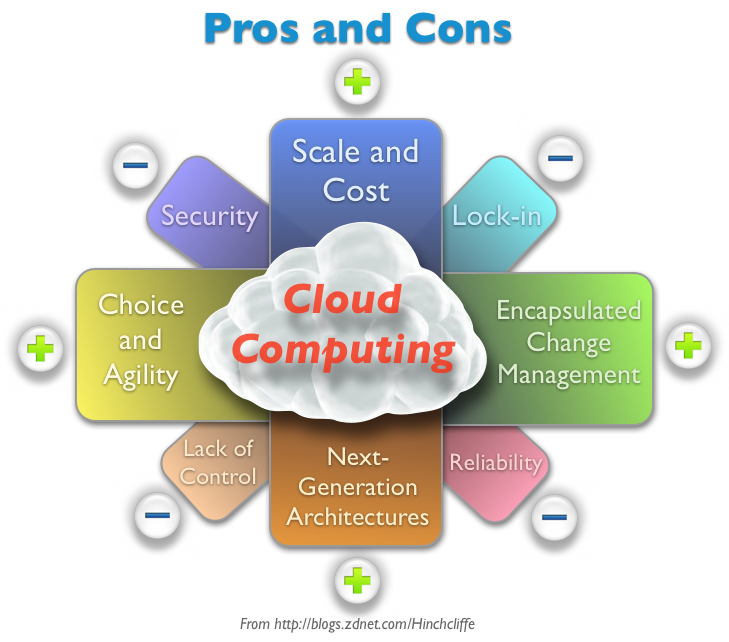
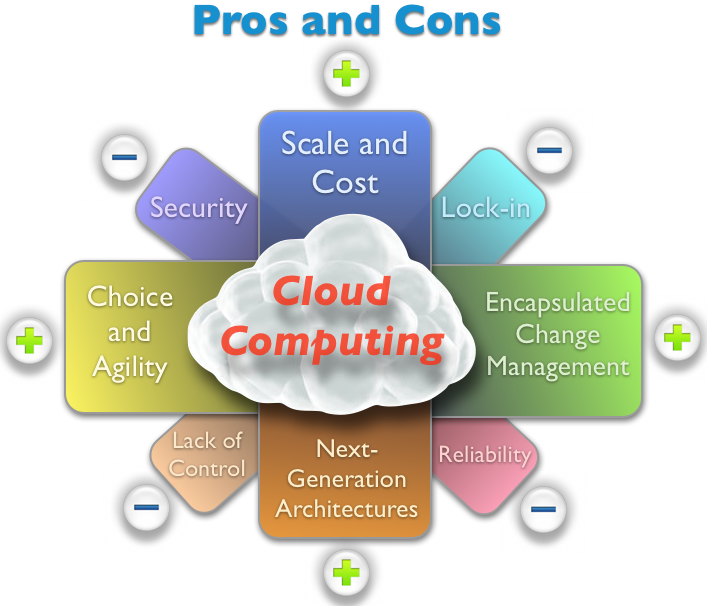
se arreglo el estilo

Changed region(s): [[0.0, 0.0, 1.0, 1.0], [0.529, 0.3564, 0.5601, 0.3861], [0.4356, 0.3564, 0.4668, 0.3861]]

diff --git a/tpCC.tex b/tpCC.tex
@@ -28,35 +28,35 @@
 
 \newpage
 
-\section{Que es Cloud Computing?}
+\section{¿Que es Cloud Computing?}
 
 \subsection{Introducción}
-Cuando se trata de un desarrollo , un problema muy común es la
-infraestructura .Las grandes empresas tienen el capital
+Cuando se trata de un desarrollo, un problema muy común es la
+infraestructura. Las grandes empresas tienen el capital
 suficiente como para contratar a un ingeniero capaz de diseñar
 una red de infraestructura adecuada a la información que se
 maneja y a un personal que se encargue de administrar esa
-red,Pero ¿Qué pasa cuando gente emprendedora que quiere empezar
+red. Pero ¿Qué pasa cuando gente emprendedora que quiere empezar
 un proyecto no tiene que almacenar la información suficiente
-como para aprovechar,o no puede costear, un salon de
-servidores?,¿O cuando se crea una aplicacíon que tiene un uso
-temporal?,¿O se lanza una aplicación la cual no se sabe si
+como para aprovechar, o no puede costear, un salón de
+servidores? ¿O cuando se crea una aplicación que tiene un uso
+temporal? ¿O se lanza una aplicación la cual no se sabe si
 tendrá el suficiente éxito como para gastar fortunas en
-infraestructura?.La respuesta es Cloud Computing,concepto
-conocido también bajo los términos servicios en la nube.Es un
+infraestructura?. La respuesta es Cloud Computing, concepto
+conocido también bajo los términos servicios en la nube. Es un
 servicio de almacenamiento en el cual cualquier usuario puede
 acceder a el sin las complicaciones que lleva montar
-servidores,diseñar una topologia y adecuar un ambiente para su
+servidores, diseñar una topología y adecuar un ambiente para su
 correcto desempeño. El usuario final no necesita tener
 conocimientos avanzados de informática para utilizar estos
 servicios ya que se puede presentar de muchas formas de cloud
-computing ,y quizás ni siquiera lo notemos ,desde almacenamiento
+computing, y quizás ni siquiera lo notemos, desde almacenamiento
 de archivos que usamos cotidianamente y queremos tenerlos al
 alcance siempre, hasta soporte de almacenamiento de datos para
-aplicativos de proyectos caseros.Su versatilidad hace que hasta
+aplicativos de proyectos caseros. Su versatilidad hace que hasta
 también se adecúe al equipo y al tipo de plataforma en el cual
-nos estemos conectando para visualizar nuestra informacion,
-tablets, equipos de escritorio, celulares , entre otros.\par
+nos estemos conectando para visualizar nuestra información,
+tablets, equipos de escritorio, celulares, entre otros.\par
 
 La computación en la nube son servidores desde internet
 encargados de atender las peticiones en cualquier momento. Se
@@ -65,17 +65,17 @@ conexión a internet desde cualquier dispositivo móvil o fijo
 ubicado en cualquier lugar. Sirven a sus usuarios desde varios
 proveedores de alojamiento repartidos frecuentemente por todo el
 mundo. Esta medida reduce los costes, garantiza un mejor tiempo
-de actividad y que los sitios web sean invulnerables.Es un nuevo
+de actividad y que los sitios web sean invulnerables. Es un nuevo
 modelo de prestaciones que hasta le permite al usuario tener un
 catálogo online de todos los servicios que ofrece, aumentando
 mas una de sus cualidades mas importantes que es la
-flexibilidad.Esto genera beneficios tanto para los proveedores,
+flexibilidad. Esto genera beneficios tanto para los proveedores,
 que pueden ofrecer, de forma más rápida y eficiente, un mayor
 número de servicios, como para los usuarios que tienen la
 posibilidad de acceder a ellos, disfrutando de la
-‘transparencia’ e inmediatez del sistema y de un modelo de pago
-por consumo,así el consumidor puede controlar sus gastos.\par Se
-incorporan conceptos como "\ el software como servicio"\ y otros
+``transparencia'' e inmediatez del sistema y de un modelo de pago
+por consumo, así el consumidor puede controlar sus gastos.\par 
+Se incorporan conceptos como  el ``software como servicio'' y otros
 mas recientes que son tendencias tecnológicas que tienen en
 común el que confían en Internet para satisfacer las necesidades
 de cómputo de los usuarios.
@@ -91,9 +91,9 @@ computing}
 \par
 \subsection{Características importantes de Cloud Computing}
 
-Para obtener la eficiencia que se conoce hoy en dia , cloud
+Para obtener la eficiencia que se conoce hoy en día, cloud
 computing atiende a una serie de características básicas que las
-difieren de otros servicios de almacenamiento
+difieren de otros servicios de almacenamiento:
 \begin {itemize}
 \item \textbf{Flexibilidad en la elección de aplicaciones:} El
 usuario puede decidir en todo momento qué aplicaciones usar y
@@ -104,10 +104,10 @@ se ha usado ese servicio, el volumen de tráfico de datos
 utilizado, etc.
 \item \textbf{Accesibilidad:} Se encuentra una disponibilidad
 completa de las aplicaciones en cloud computing y libres para el
-usuario.El rango es muy amplio y varía desde el uso de pcs hasta
+usuario. El rango es muy amplio y varía desde el uso de PCs hasta
 portátiles y móviles.
 
-\item \textbf{Asignación de recursos en modo multiusuario:}A
+\item \textbf{Asignación de recursos en modo multiusuario:} A
 diferencia de las aplicaciones de software tradicionales, en el
 cloud computing el proveedor tiene una única aplicación que abre
 a todos los usuarios que desean utilizarla, estableciendo unos
@@ -116,29 +116,29 @@ Al ser aplicaciones multiusuario, puede hacer miles de
 internautas utilizando la misma herramienta a la vez, cada uno
 con las mismas o distintas prestaciones.
 
-\item \textbf{Elasticidad y escalabilidad:}Las aplicaciones en
+\item \textbf{Elasticidad y escalabilidad:} Las aplicaciones en
 cloud son totalmente elásticas en cuanto a su rapidez de
 implementación y adaptabilidad. Además, son totalmente
 escalables, es decir, hoy podemos estar utilizando solo un 10
-pct del total de la aplicación y mañana podemos acceder al 80
-pct de la misma con total normalidad y rapidez, con tan solo
+\% del total de la aplicación y mañana podemos acceder al 80
+\% de la misma con total normalidad y rapidez, con tan solo
 comunicarlo a nuestro proveedor y modificar nuestra tarifa de
 suscripción.
  
-\item \textbf{Supervisión del servicio:}Los sistemas en cloud
+\item \textbf{Supervisión del servicio:} Los sistemas en cloud
 controlan y optimizan el uso de los recursos de manera
 automática, por lo que el uso de estos puede seguirse,
 controlarse y notificarse, lo que aporta transparencia tanto
 para el proveedor como para el consumidor del servicio
 utilizado.
  
-\item \textbf{Seguridad}Los datos, cuando están en aplicaciones
+\item \textbf{Seguridad:} Los datos, cuando están en aplicaciones
 en cloud, se alojan en DATA CENTERS, empresas específicamente
 dedicadas a la custodia y salvaguarda de datos de empresas de
-todo tipo.Son empresas que cuentan con todas las medidas de
+todo tipo. Son empresas que cuentan con todas las medidas de
 seguridad necesarias, tanto físicas como de software, de forma
 que no haya jamás una pérdida de información ni de integridad de
-los datos
+los datos.
 \end{itemize}
 
 \begin{figure}[h!]
@@ -152,43 +152,43 @@ los datos
 \begin {itemize}
 \item \textbf{Mejora en la economía} El poder aumentar la
 capacidad de producción con la menor cantidad de
-personas.Asegura un mayor rendimiento costo-beneficio
+personas. Asegura un mayor rendimiento costo-beneficio.
 
 \item \textbf{Reducir el gasto en infraestructura tecnológica}
-Se otorga un facil acceso a la información con un gasto fijo y
-mínimo por adelantado
+Se otorga un fácil acceso a la información con un gasto fijo y
+mínimo por adelantado.
 
-\item \textbf{Globalización de la fuerza de trabajo } Todas las
+\item \textbf{Globalización de la fuerza de trabajo} Todas las
 personas pueden acceder a la nube siempre y cuando tengan
-conexión a internet
-\item \textbf{Optimización de los procesos}Hacer mayor trabajo
+conexión a internet.
+\item \textbf{Optimización de los procesos} Hacer mayor trabajo
 en menos tiempo.
  
-\item \textbf{Reducir los costos de capital}No hay necesidad de
+\item \textbf{Reducir los costos de capital} No hay necesidad de
 gastar dinero en hardware, software o licencias.
  
 \item \textbf{Mejora la accesibilidad} Acceso en cualquier
 momento y en cualquier lugar.
   
 \item \textbf{Supervisar los proyectos con mayor eficacia}
-Facilidad para supervisar el tiempo ycosto de los proyectos y
+Facilidad para supervisar el tiempo y costo de los proyectos y
 presupuestarlos.
  
-\item \textbf{ Menos entrenamiento de personal.} No hay que
+\item \textbf{ Menos entrenamiento de personal} No hay que
 gastar recursos en capacitación de personal ya que solo se
-requieren conocimientos mínimos de software
+requieren conocimientos mínimos de software.
   
 \item \textbf{ Mejorar la flexibilidad} Puede cambiar de
-capacidad facilmente y adaptarlo rapidamente a las necesidades
-del usuario
+capacidad fácilmente y adaptarlo rápidamente a las necesidades
+del usuario.
     
 \end{itemize}
 
 
 \begin{figure}[h!]
  \centering
- \includegraphics[width=0.71\textwidth]{cc_pros.png}
-\caption[pros cloud computing]{Esquema de ventajas y desventajas de cloud computing}
+ \includegraphics[width=0.54\textwidth]{cc_pros.png}
+\caption[Pros Cloud Computing]{Esquema de ventajas y desventajas de cloud computing}
 \end{figure}\par
 
 
@@ -206,13 +206,18 @@ del usuario
 \newpage
 
 \begin{thebibliography}{1}
-		
-\bibitem{wikiCC}
 
-%agregar las paginas
-http://www.societic.com/2010/03/cloud-computing-caracteristicas-de-las-aplicaciones-en-cloud/
- %http://es.wikipedia.org/wiki/Computaci%C3%B3n_en_la_nube
- %
+\bibitem{caractCC}		
+\emph{Caracteristicas de las aplicaciones. }
+ 21 Abr 2013\\
+\url{http://www.societic.com/2010/03/cloud-computing-caracteristicas-de-las-aplicaciones-en-cloud/}
+ 
+\bibitem{wikiCC} 
+\emph{Computación en la nube. } 
+ 21 Abr 2013\\
+ \url{http://es.wikipedia.org/wiki/Computaci\%C3\%B3n_en_la_nube}
+ 
+\bibitem{ver} 
  \emph{Free Pool of IPv4 Address Space Depleted.} 
  19 Mar 2013\\
 	\url{https://www.nro.net/news/ipv4-free-pool-depleted}	
